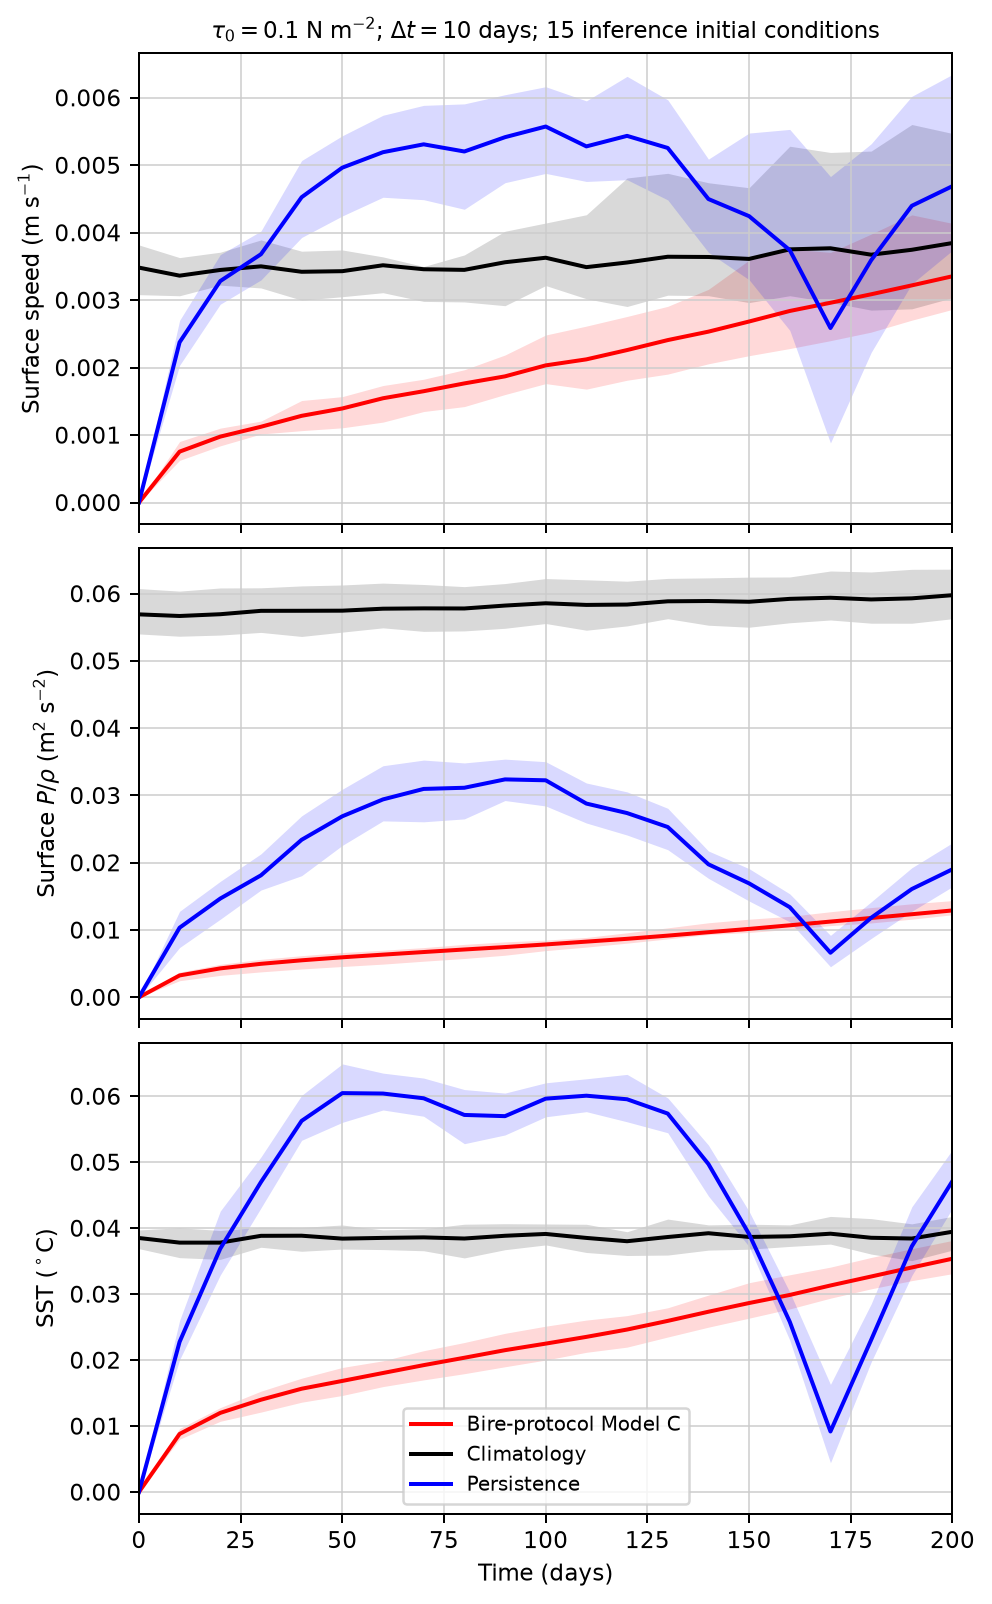
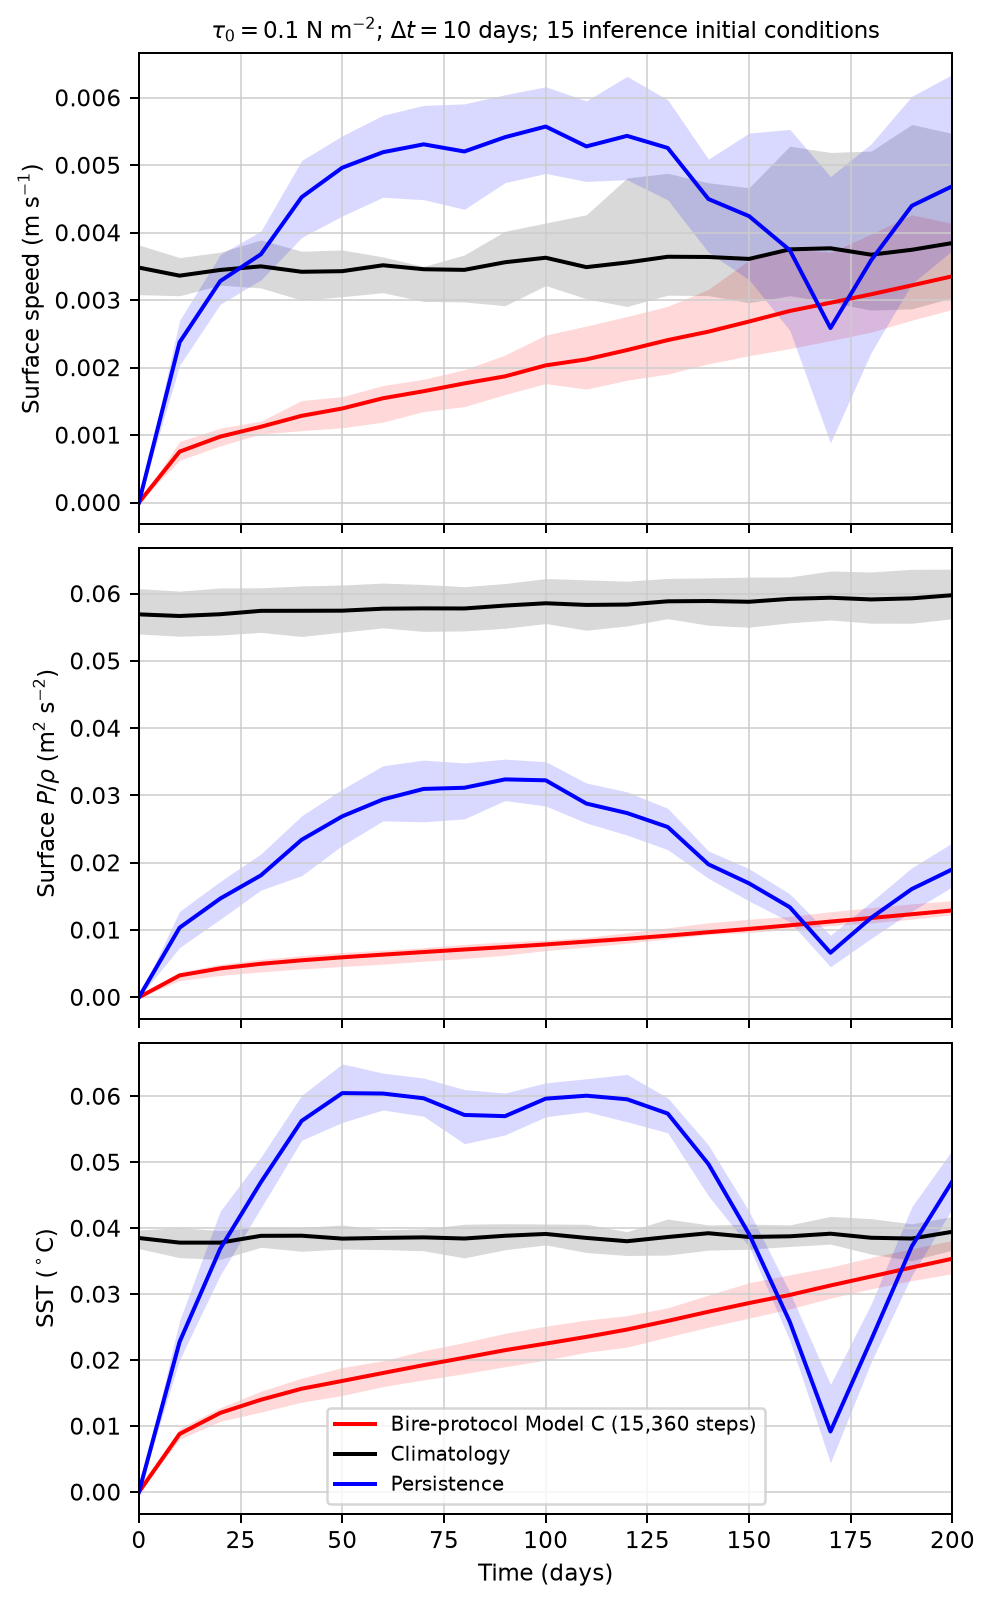
Last model meta data updated

Changed region(s): [[0.3125, 0.8728, 0.7812, 0.9352]]

diff --git a/tests/model_c/test_af_model_c_bire_protocol_duration.py b/tests/model_c/test_af_model_c_bire_protocol_duration.py
@@ -142,7 +142,7 @@ def test_artifact_names_do_not_collide_with_the_parents() -> None:
     from bire_repro import af_model_c_bire_protocol_duration as arm
 
     for name in ("REPORT_NAME", "ARRAYS_NAME", "FIGURE_NAME",
-                 "NORMALIZATION_NAME", "DIVERGENCE_NAME"):
+                 "NORMALIZATION_NAME", "DIVERGENCE_NAME", "CHECKPOINT_STEM"):
         assert getattr(arm, name) != getattr(protocol, name)
         assert "duration" in getattr(arm, name)
 
@@ -192,3 +192,39 @@ def test_readme_rejects_a_report_missing_the_selection_block() -> None:
 
     with pytest.raises(KeyError):
         _readme({"validation_summaries": [], "optimizer": {"decay_step": 11520}})
+
+
+def test_checkpoint_stems_cannot_collide_between_arms() -> None:
+    """Regression: both arms wrote `model_c_bire_protocol_step_07680.pt`.
+
+    Same filename, different weights -- this run's step 7,680 is still at 5e-4
+    where the parent's had already decayed to 1e-4.  Anything that copies
+    checkpoints out of their directories would silently confuse the two.
+    """
+
+    from bire_repro import af_model_c_bire_protocol_duration as arm
+
+    assert arm.CHECKPOINT_STEM != protocol.CHECKPOINT_STEM
+    assert "duration" in arm.CHECKPOINT_STEM
+    names = {f"{arm.CHECKPOINT_STEM}_{s:05d}.pt" for s in CHECKPOINT_STEPS}
+    theirs = {f"{protocol.CHECKPOINT_STEM}_{s:05d}.pt" for s in protocol.CHECKPOINT_STEPS}
+    assert names.isdisjoint(theirs)
+    assert "CHECKPOINT_STEM" in PARENT_BINDINGS
+
+
+@pytest.mark.skipif(
+    not (ROOT / "outputs/af_fno/C/bire_protocol_duration_v1/bire_protocol_duration_report.json").is_file(),
+    reason="the run has not completed",
+)
+def test_published_checkpoint_names_match_the_files_on_disk() -> None:
+    from bire_repro.af_model_c_overfit import _file_sha256
+
+    report = json.loads(
+        (ROOT / "outputs/af_fno/C/bire_protocol_duration_v1/bire_protocol_duration_report.json").read_text()
+    )
+    directory = Path(report["published_checkpoint"]["checkpoint"]).parent / "training_checkpoints"
+    for entry in report["checkpoints"]:
+        path = directory / entry["checkpoint"]
+        assert path.is_file(), f"{entry['checkpoint']} is not on disk"
+        assert _file_sha256(path) == entry["checkpoint_sha256"]
+        assert "duration" in entry["checkpoint"]

diff --git a/src/bire_repro/af_model_c_bire_protocol.py b/src/bire_repro/af_model_c_bire_protocol.py
@@ -126,6 +126,10 @@ DIVERGENCE_NAME = "bire_protocol_divergence.json"
 # used elsewhere in this project -- is safe because `_plot` takes an explicit
 # path and every write below goes through these names, so the published package
 # is named after the arm that produced it.
+# Derived arms rebind this so their checkpoints cannot share a filename with
+# this arm's.  Two arms wrote `model_c_bire_protocol_step_07680.pt` with
+# different weights before it was made rebindable.
+CHECKPOINT_STEM = "model_c_bire_protocol_step"
 REPORT_NAME = "bire_protocol_report.json"
 ARRAYS_NAME = "bire_protocol_arrays.npz"
 FIGURE_NAME = "model_c_bire_protocol_selection.png"
@@ -481,7 +485,7 @@ def run(contract_path: str | Path, *, device_name: str = "auto") -> dict[str, An
             "training_window": window,
         }
         history.append(history_record)
-        path = checkpoint_directory / f"model_c_bire_protocol_step_{step:05d}.pt"
+        path = checkpoint_directory / f"{CHECKPOINT_STEM}_{step:05d}.pt"
         torch.save(
             {
                 "version": VERSION,

diff --git a/tests/model_c/test_af_model_c_bire_protocol_duration_figures.py b/tests/model_c/test_af_model_c_bire_protocol_duration_figures.py
@@ -135,3 +135,19 @@ def test_launcher_invokes_its_own_module_and_contract() -> None:
     }
     assert invoked == {"bire_repro.af_model_c_bire_protocol_duration_figures"}
     assert "model_c_bire_protocol_duration_s0_figures_v1.json" in text
+
+
+def test_the_red_curve_is_labelled_distinctly_from_the_parent() -> None:
+    """Two packages built to be compared must not name their model curve alike."""
+
+    from bire_repro import af_model_c_bire_s0_figures as figures
+    from bire_repro.af_model_c_bire_protocol_duration_figures import MODEL_LABEL
+
+    assert MODEL_LABEL != suite.MODEL_LABEL
+    assert "15,360" in MODEL_LABEL
+    assert "MODEL_LABEL" in PARENT_BINDINGS
+    with _SuiteBinding():
+        with suite.RegimeLabels("S0", 0.1, SELECTED_STEP):
+            assert figures.METHOD_LABELS["model"] == MODEL_LABEL
+    with suite.RegimeLabels("S0", 0.1, 7680):
+        assert figures.METHOD_LABELS["model"] == suite.MODEL_LABEL

diff --git a/src/bire_repro/af_model_c_bire_protocol_duration.py b/src/bire_repro/af_model_c_bire_protocol_duration.py
@@ -103,6 +103,7 @@ DECLARED_CHANGE = "maximum_steps"
 
 NORMALIZATION_NAME = "model_c_bire_protocol_duration_train_only_normalization.npz"
 DIVERGENCE_NAME = "bire_protocol_duration_divergence.json"
+CHECKPOINT_STEM = "model_c_bire_protocol_duration_step"
 REPORT_NAME = "bire_protocol_duration_report.json"
 ARRAYS_NAME = "bire_protocol_duration_arrays.npz"
 FIGURE_NAME = "model_c_bire_protocol_duration_selection.png"
@@ -253,6 +254,7 @@ Report content SHA-256: `{report['content_sha256']}`.
 #: Globals the parent's ``preflight`` and ``run`` resolve at call time.
 PARENT_BINDINGS = (
     "VERSION",
+    "CHECKPOINT_STEM",
     "CONTRACT_STATUS",
     "CHECKPOINT_STEPS",
     "MAXIMUM_STEPS",

diff --git a/src/bire_repro/af_model_c_bire_protocol_duration_figures.py b/src/bire_repro/af_model_c_bire_protocol_duration_figures.py
@@ -43,6 +43,8 @@ START_SEED = suite.START_SEED
 #: The parent arm's entire budget, used here as this run's own comparator.
 COMPARATOR_STEP = 7680
 SELECTED_STEP = 15360
+#: Distinguishes this package's red curve from the parent's in side-by-side reading.
+MODEL_LABEL = "Bire-protocol Model C (15,360 steps)"
 REGIMES = suite.REGIMES
 
 
@@ -131,7 +133,8 @@ Report content SHA-256: `{report['report_content_sha256']}`.
 """
 
 
-PARENT_BINDINGS = ("VERSION", "CONTRACT_STATUS", "COMPARATOR_STEP", "load_contract", "_readme")
+PARENT_BINDINGS = ("VERSION", "CONTRACT_STATUS", "COMPARATOR_STEP", "MODEL_LABEL",
+                   "load_contract", "_readme")
 
 
 class _SuiteBinding:

diff --git a/src/bire_repro/af_model_c_bire_protocol_figures.py b/src/bire_repro/af_model_c_bire_protocol_figures.py
@@ -176,6 +176,10 @@ def _stepper(
     )
 
 
+#: Red-curve legend name.  Derived arms rebind this so two packages meant to
+#: be compared side by side do not label their model curve identically.
+MODEL_LABEL = "Bire-protocol Model C"
+
 #: Wind label per regime, for titles the frozen plotters hard-code as S0's.
 REGIME_WIND_LABEL = {"S0": "Control wind", "S1": "Low wind", "S2": "High wind"}
 
@@ -262,7 +266,7 @@ class RegimeLabels:
         matplotlib.axes.Axes.plot = patched_plot
         figures.METHOD_LABELS = {
             **self._method_labels,
-            "model": "Bire-protocol Model C",
+            "model": MODEL_LABEL,
         }
         return self
 
